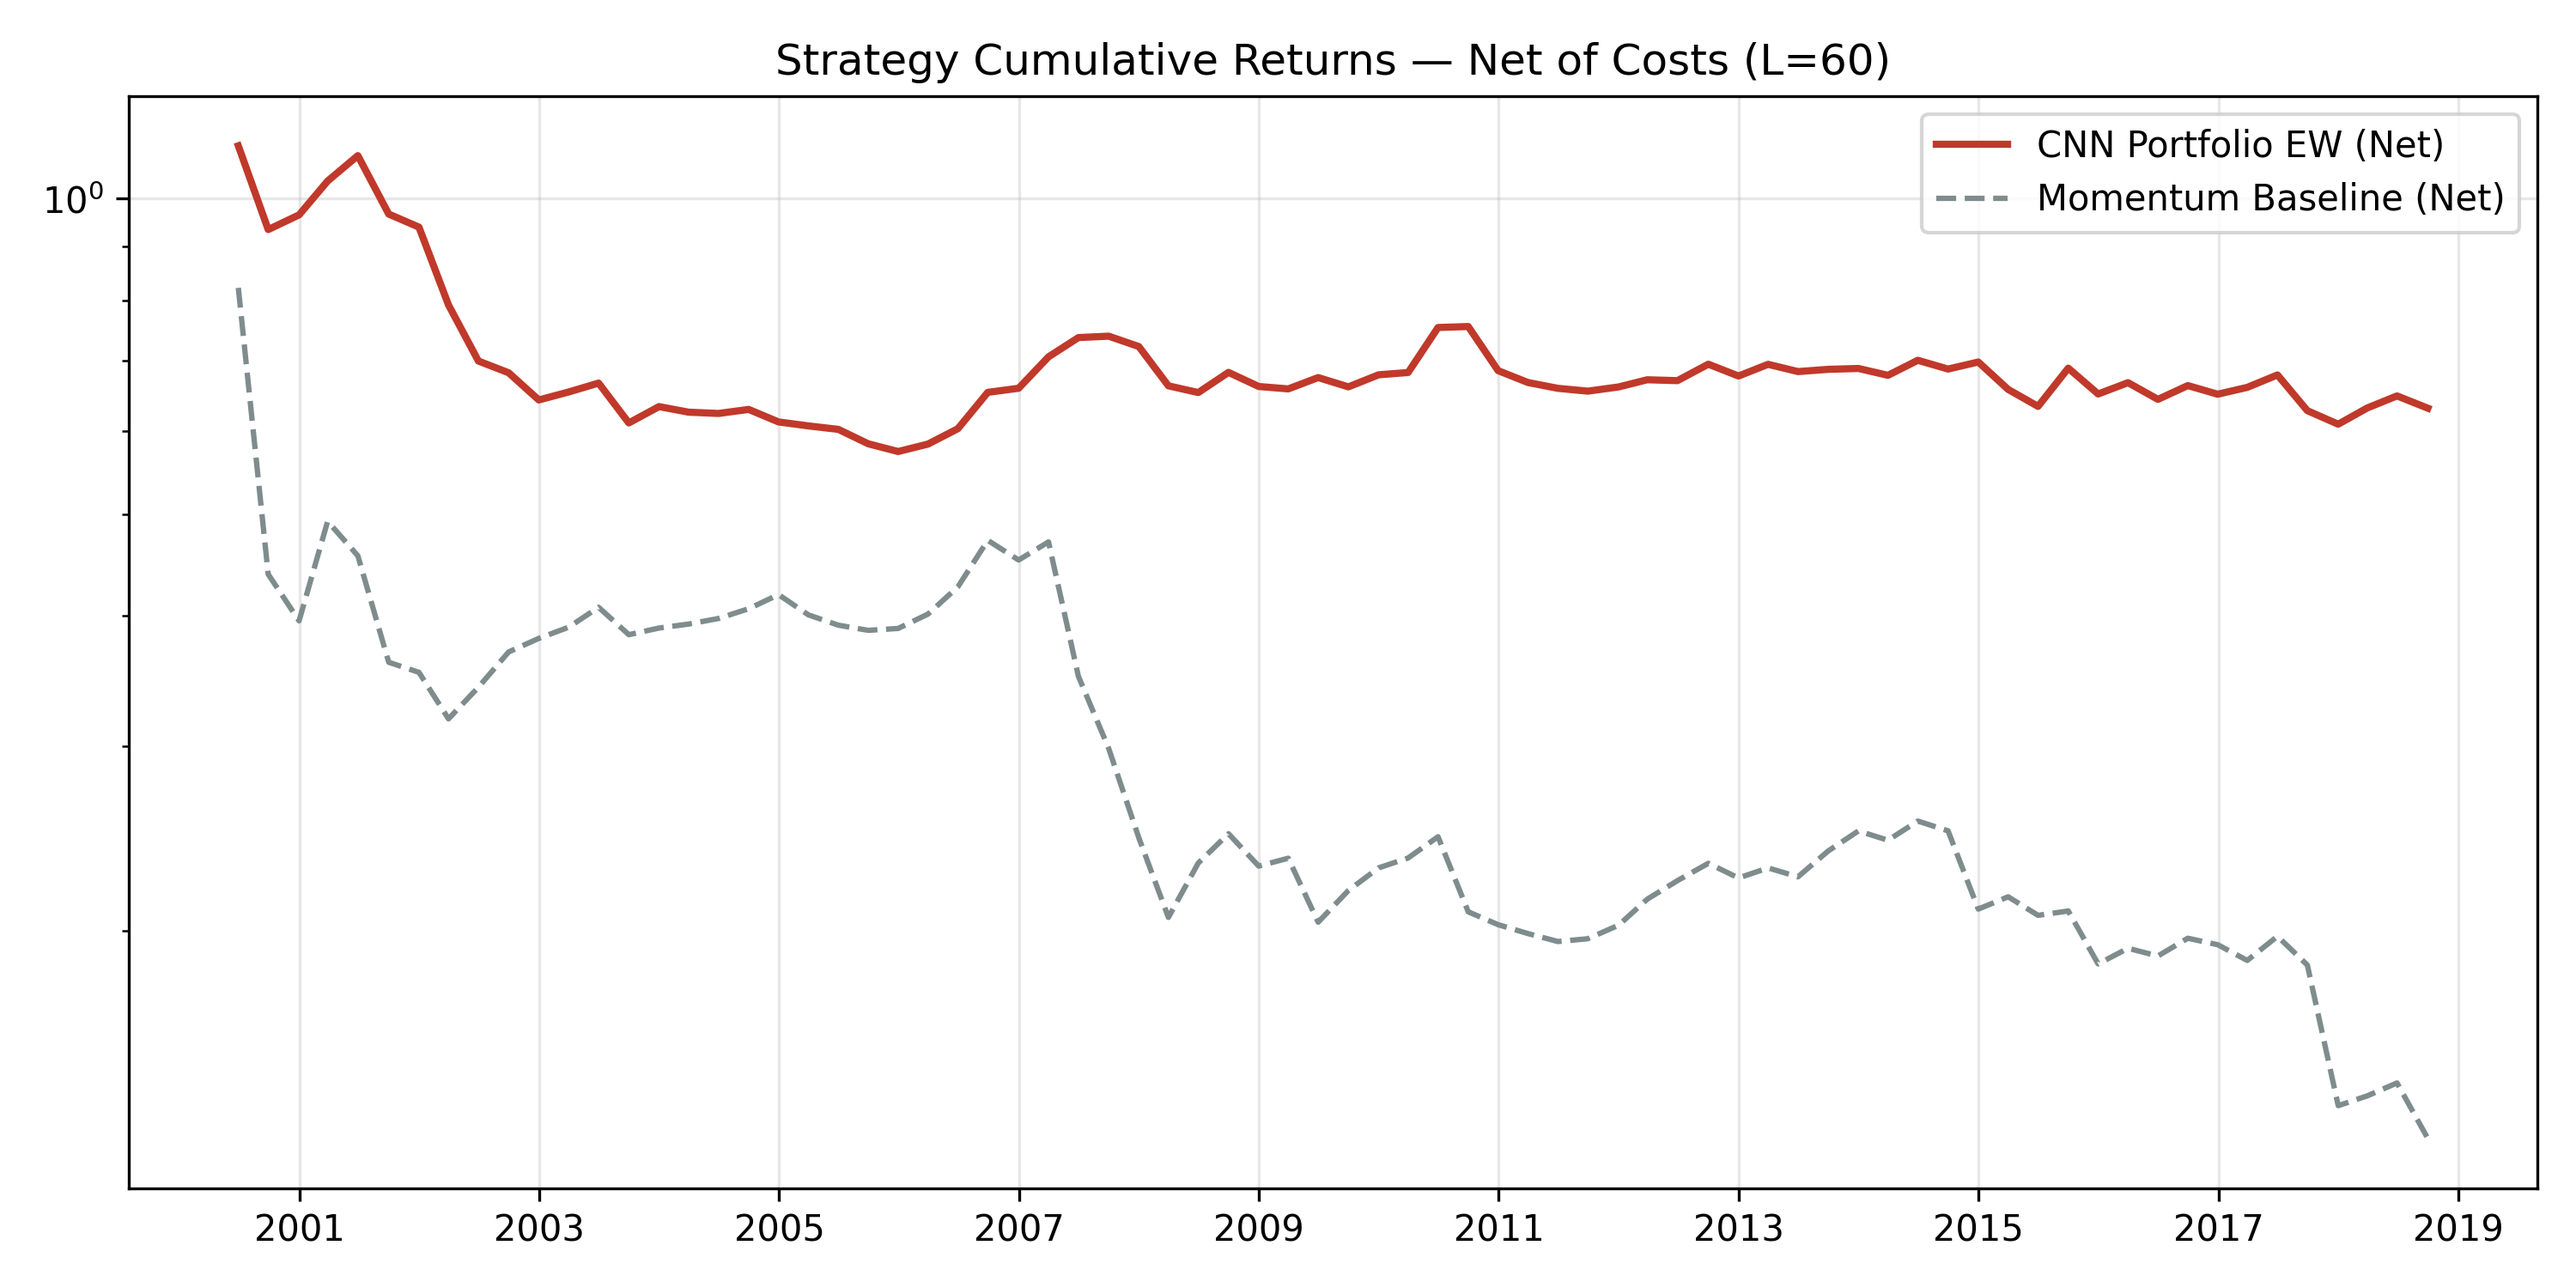
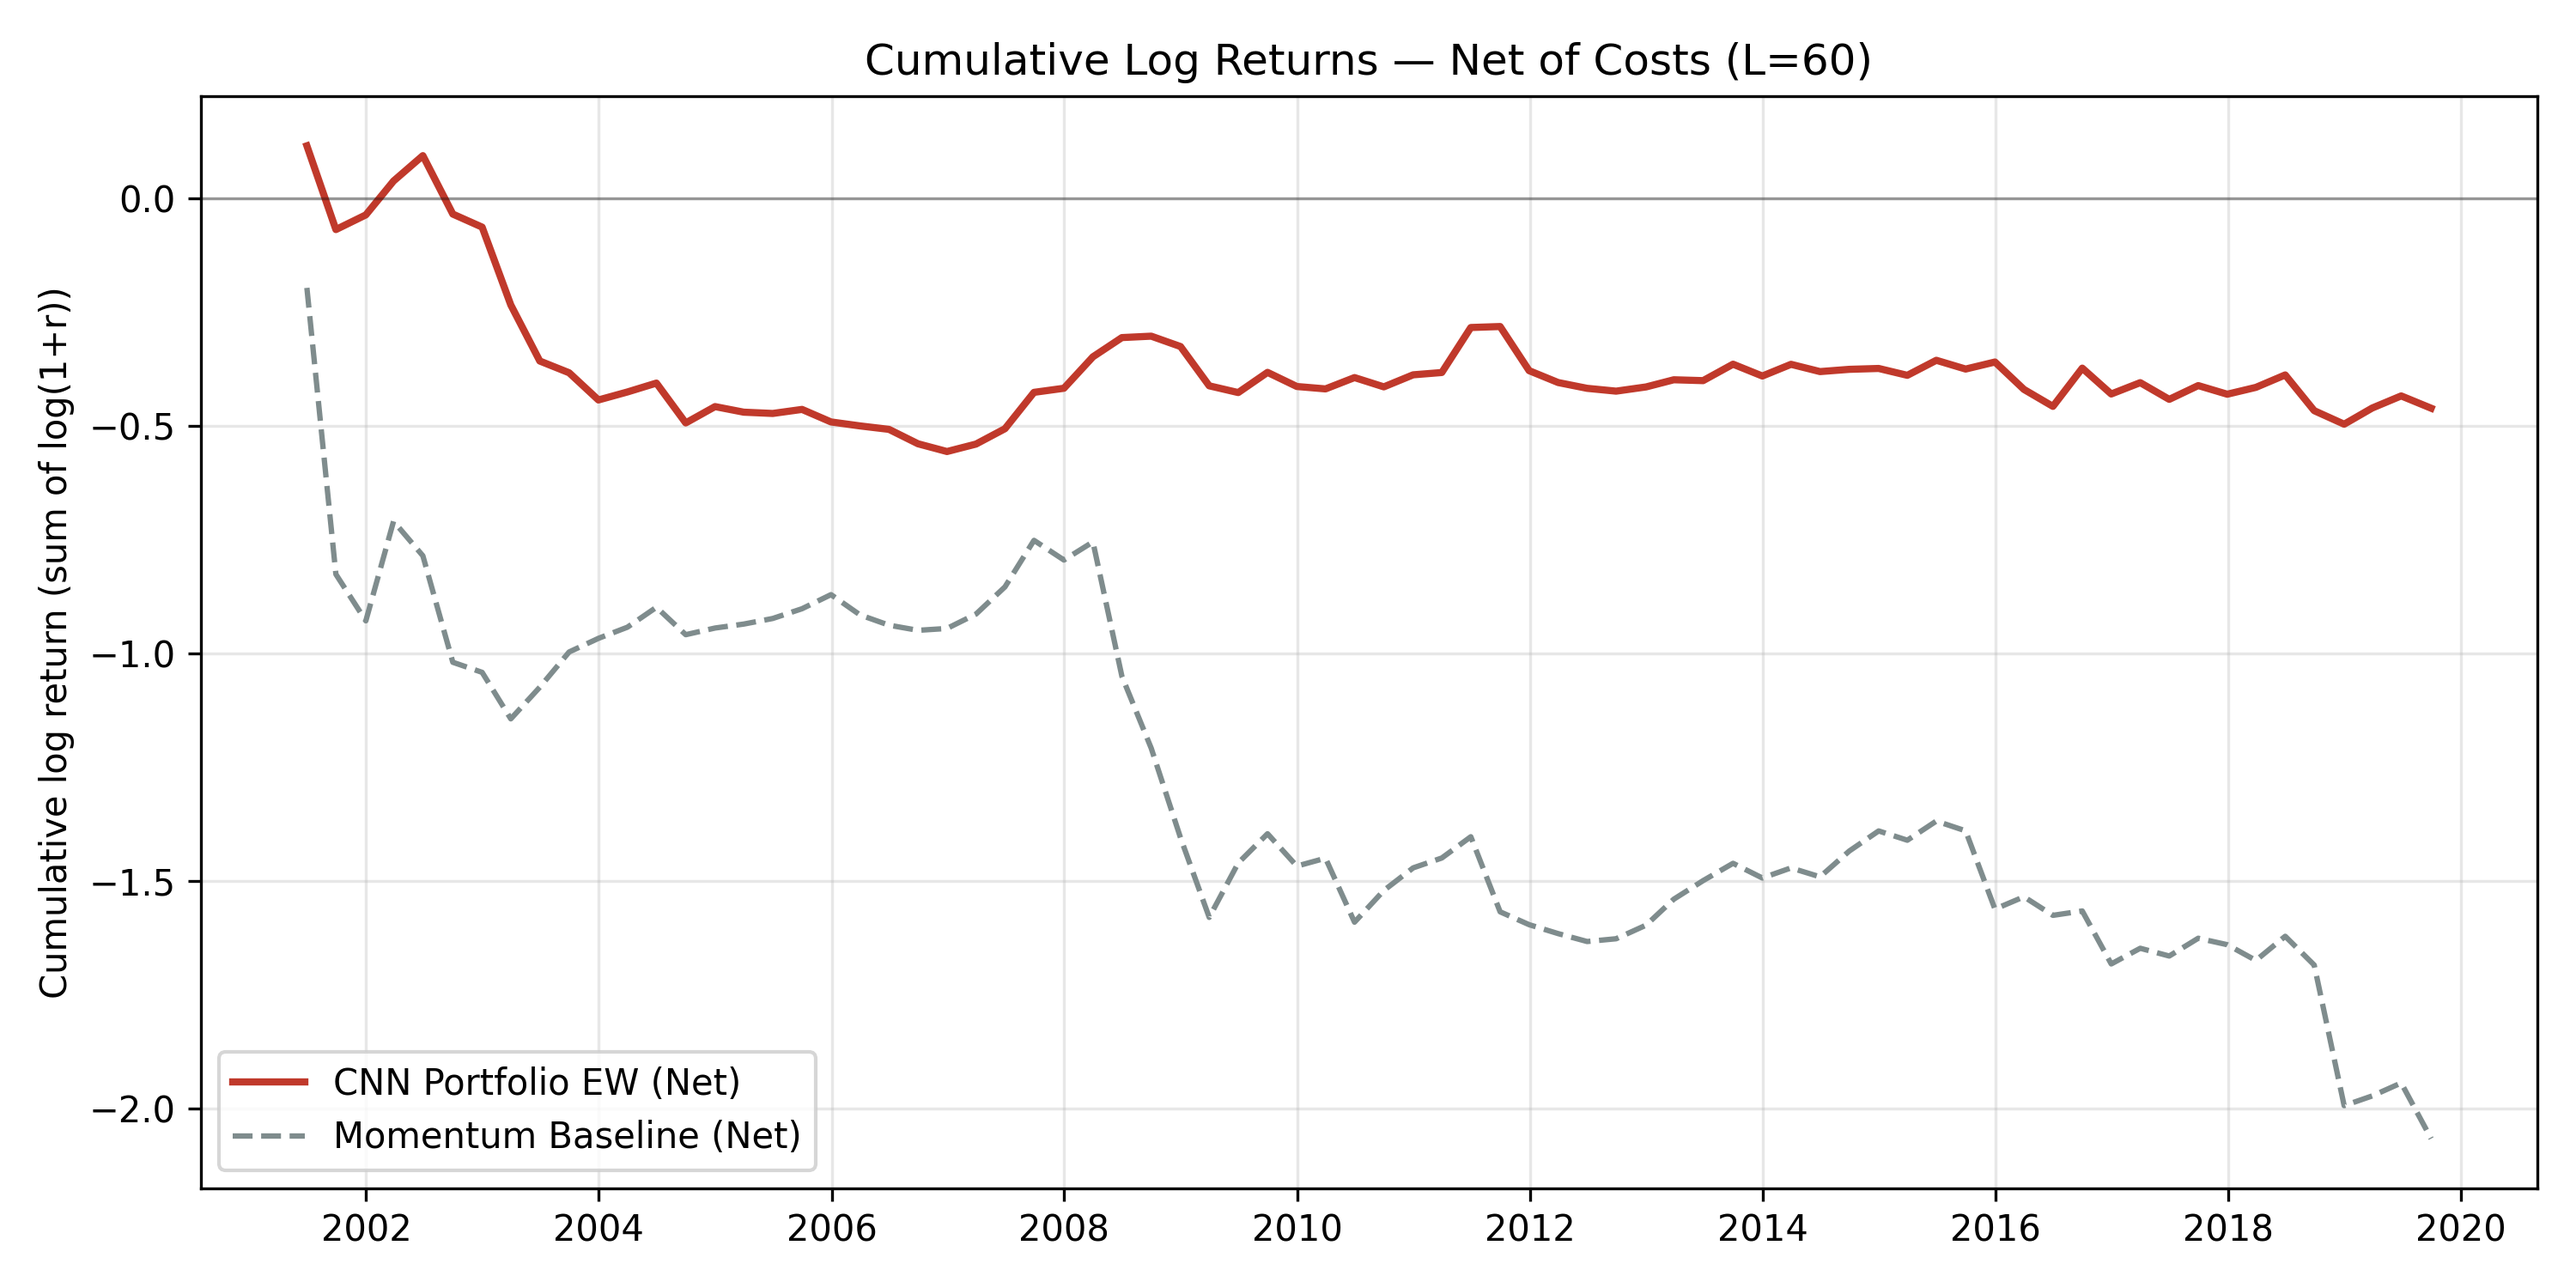
revise: the logic to generate the figure related to cumulative returns based on diff models

diff --git a/final_submit_version/scripts/pipeline_split/plot_figure5_vol_adjusted_cumlog.py b/final_submit_version/scripts/pipeline_split/plot_figure5_vol_adjusted_cumlog.py
@@ -1,0 +1,247 @@
+#!/usr/bin/env python3
+"""Jiang et al. (2023) Figure 5–style panel: volatility-matched cumulative log returns.
+
+Matches the *construction* in the paper caption:
+
+1. At each model's native rebalance dates, take equal-weight long–short returns
+   (here: **gross** ``*_LS_gross*`` columns from cached ``backtest_I*.pkl``).
+2. Build the same holding-period return on a **market benchmark** between consecutive
+   rebalance dates. We try **SPY** (``yfinance``) first; if that fails (rate limits),
+   we use **CRSP value-weighted market** from Ken French daily factors
+   (``Mkt-RF + RF``), which matches many asset-pricing appendices and is close to
+   “market vol” for rescaling.
+3. Let σ_strat and σ_bench be full-sample standard deviations of those periodic returns.
+4. Scale strategy returns by (σ_bench / σ_strat) so each series has the same vol as the benchmark
+   over the test window.
+5. Plot cumulative log return: sum_t log(1 + r̃_t) on a **linear** y-axis.
+
+**Important cache limitation:** the paper plots **I5/R5, I20/R5, I60/R5** (fixed weekly
+holding *R=5*). This repo's cached ``backtest_I20.pkl`` / ``backtest_I60.pkl`` use
+**monthly / quarterly** rebalancing (matched *I=R*). Those curves are labelled
+``I20/R20`` and ``I60/R60`` in the legend so the figure is not misread as a full
+replication of the paper's horizon mix.
+
+Extra series from cache on the weekly calendar: momentum and MA long–short (``backtest_I5``).
+
+Needs **network** for the benchmark series (SPY and/or Fama–French daily).
+
+Outputs (300 dpi PNG):
+
+- ``final_submit_version/outputs/pipeline_runs/figures/figure5_vol_adjusted_cumlog.png``
+- ``final_submit_version/outputs/ppt_images/figure5_vol_adjusted_cumlog.png``
+"""
+from __future__ import annotations
+
+import sys
+import time
+from pathlib import Path
+
+import numpy as np
+import pandas as pd
+
+ROOT_DIR = Path(__file__).resolve().parents[3]
+CACHE_DIR = ROOT_DIR / "final_submit_version" / "outputs" / "cache"
+FIG_DIR = ROOT_DIR / "final_submit_version" / "outputs" / "pipeline_runs" / "figures"
+PPT_DIR = ROOT_DIR / "final_submit_version" / "outputs" / "ppt_images"
+
+
+def _norm_ix(ix) -> pd.DatetimeIndex:
+    return pd.to_datetime(ix, utc=False).tz_localize(None).normalize()
+
+
+def load_backtest(h: int) -> pd.DataFrame:
+    path = CACHE_DIR / f"backtest_I{h}.pkl"
+    if not path.exists():
+        raise FileNotFoundError(path)
+    df = pd.read_pickle(path)
+    df = df.copy()
+    df.index = _norm_ix(df.index)
+    return df.sort_index()
+
+
+def download_spy_daily(start: pd.Timestamp, end: pd.Timestamp) -> pd.Series:
+    import yfinance as yf
+
+    pad = pd.Timedelta(days=7)
+    kw = dict(
+        start=(start - pad).strftime("%Y-%m-%d"),
+        end=(end + pad).strftime("%Y-%m-%d"),
+        progress=False,
+        auto_adjust=True,
+        threads=False,
+    )
+    last_err: Exception | None = None
+    for attempt in range(3):
+        try:
+            df = yf.download("SPY", **kw)
+            if df.empty or len(df) < 10:
+                raise RuntimeError("yfinance returned empty SPY history")
+            close = df["Close"].squeeze()
+            if hasattr(close, "columns"):
+                close = close.iloc[:, 0]
+            close.index = _norm_ix(close.index)
+            close = close.sort_index()
+            ret = close.pct_change()
+            ret.name = "SPY"
+            return ret.dropna()
+        except Exception as exc:  # noqa: BLE001
+            last_err = exc
+            time.sleep(2.0 * (attempt + 1))
+    raise RuntimeError(f"yfinance SPY failed after retries: {last_err}") from last_err
+
+
+def download_ff_market_daily(start: pd.Timestamp, end: pd.Timestamp) -> pd.Series:
+    import pandas_datareader.data as web
+
+    pad = pd.Timedelta(days=35)
+    ff = web.DataReader(
+        "F-F_Research_Data_Factors_daily",
+        "famafrench",
+        start=start - pad,
+        end=end + pad,
+    )[0]
+    ff = ff.copy()
+    ff.columns = [str(c).strip() for c in ff.columns]
+    ff.index = _norm_ix(ff.index)
+    ff = ff.sort_index()
+    # Daily factors are in percent; convert to decimals. Total market ~ Mkt-RF + RF.
+    mkt = (ff["Mkt-RF"] + ff["RF"]) / 100.0
+    mkt.name = "FF_mkt"
+    return mkt.dropna()
+
+
+def download_benchmark_daily(start: pd.Timestamp, end: pd.Timestamp) -> tuple[pd.Series, str]:
+    """Returns (daily simple return series, human label for plots)."""
+    try:
+        return download_spy_daily(start, end), "SPY"
+    except Exception as yf_exc:  # noqa: BLE001
+        print(f"[warn] SPY via yfinance unavailable ({yf_exc}); using FF daily market.", file=sys.stderr)
+        return download_ff_market_daily(start, end), "CRSP VW mkt (FF)"
+
+
+def compound_spy_over_schedule(spy_ret_daily: pd.Series, rebal_dates: pd.DatetimeIndex) -> pd.Series:
+    """Holding-period benchmark return for each interval [t_i, t_{i+1}), aligned to t_i."""
+    dates = _norm_ix(rebal_dates).sort_values().unique()
+    out_idx: list = []
+    out_val: list[float] = []
+    for i, t_start in enumerate(dates):
+        t_end = dates[i + 1] if i + 1 < len(dates) else None
+        if t_end is None:
+            break
+        chunk = spy_ret_daily[(spy_ret_daily.index > t_start) & (spy_ret_daily.index <= t_end)]
+        if chunk.empty:
+            continue
+        r = float((1.0 + chunk).prod() - 1.0)
+        out_idx.append(t_start)
+        out_val.append(r)
+    return pd.Series(out_val, index=pd.DatetimeIndex(out_idx, name="dlycaldt"), name="bench_hold")
+
+
+def vol_scaled_cumulative_log(strategy_r: pd.Series, bench_hold_r: pd.Series) -> pd.Series:
+    """Inner-join on dates; scale strategy vol to benchmark vol; return cum log(1+r)."""
+    j = pd.DataFrame({"strat": strategy_r.astype(float), "bench": bench_hold_r.astype(float)}).dropna(
+        how="any"
+    )
+    if len(j) < 5:
+        return pd.Series(dtype=float)
+    s_strat = j["strat"].std(ddof=1)
+    s_spy = j["bench"].std(ddof=1)
+    if s_strat <= 0 or s_spy <= 0 or not np.isfinite(s_strat) or not np.isfinite(s_spy):
+        return pd.Series(dtype=float)
+    k = s_spy / s_strat
+    adj = j["strat"] * k
+    return np.log1p(adj).cumsum()
+
+
+def main() -> None:
+    import matplotlib.pyplot as plt
+
+    series_spec: list[tuple[str, pd.Series, str]] = []
+
+    bt5 = load_backtest(5)
+    bt20 = load_backtest(20)
+    bt60 = load_backtest(60)
+
+    start = min(bt5.index.min(), bt20.index.min(), bt60.index.min())
+    end = max(bt5.index.max(), bt20.index.max(), bt60.index.max())
+    bench_daily, bench_label = download_benchmark_daily(start, end)
+
+    # --- weekly (I5/R5) strategies from backtest_I5 ---
+    spy5 = compound_spy_over_schedule(bench_daily, bt5.index)
+    common5 = spy5.index.intersection(bt5.index)
+
+    def add_scaled(name: str, col: str) -> None:
+        r = bt5[col].reindex(common5).dropna()
+        s = spy5.reindex(r.index).dropna()
+        idx = r.index.intersection(s.index)
+        c = vol_scaled_cumulative_log(r.reindex(idx), s.reindex(idx))
+        if len(c) > 0:
+            series_spec.append((name, c, col))
+
+    add_scaled(r"CNN I5/R5 ($\mathrm{EW}$, gross)", "CNN_LS_gross_EW")
+    add_scaled(r"CNN I5/R5 ($\mathrm{VW}$, gross)", "CNN_LS_gross_VW")
+    add_scaled("Momentum (weekly H–L, gross)", "Mom_LS_gross")
+    add_scaled("MA cross (weekly H–L, gross)", "MA_LS_gross")
+
+    # --- CNN at native monthly / quarterly calendars (honest labels) ---
+    for h, bt, tag in ((20, bt20, "I20/R20"), (60, bt60, "I60/R60")):
+        spy_h = compound_spy_over_schedule(bench_daily, bt.index)
+        for col, sfx in (("CNN_LS_gross_EW", "EW"), ("CNN_LS_gross_VW", "VW")):
+            common = spy_h.index.intersection(bt.index)
+            r = bt[col].reindex(common).astype(float)
+            s = spy_h.reindex(common).astype(float)
+            idx = r.dropna().index.intersection(s.dropna().index)
+            c = vol_scaled_cumulative_log(r.reindex(idx), s.reindex(idx))
+            if len(c) > 0:
+                series_spec.append((rf"CNN {tag} ($\mathrm{{{sfx}}}$, gross)", c, f"I{h}_{sfx}"))
+
+    # Benchmark buy&hold over same weekly intervals (no vol rescaling vs itself)
+    r_spy = spy5.dropna()
+    c_spy = np.log1p(r_spy).cumsum()
+    series_spec.append((rf"{bench_label} (weekly hold)", c_spy, "SPY"))
+
+    FIG_DIR.mkdir(parents=True, exist_ok=True)
+    PPT_DIR.mkdir(parents=True, exist_ok=True)
+
+    plt.figure(figsize=(11, 6.2), dpi=120)
+    colors = {
+        "CNN_LS_gross_EW": "#1f77b4",
+        "CNN_LS_gross_VW": "#aec7e8",
+        "Mom_LS_gross": "#2ca02c",
+        "MA_LS_gross": "#9467bd",
+        "I20_EW": "#d62728",
+        "I20_VW": "#ff9896",
+        "I60_EW": "#000000",
+        "I60_VW": "#bbbbbb",
+        "SPY": "#ffbb00",
+    }
+    for name, curve, key in series_spec:
+        c = colors.get(key, "#7f7f7f")
+        lw = 2.2 if key in {"CNN_LS_gross_EW", "SPY"} else 1.6
+        plt.plot(curve.index, curve.values, label=name, color=c, linewidth=lw)
+
+    plt.title(
+        f"Volatility-adjusted cumulative log returns (EW L/S; σ matched to {bench_label})",
+        fontsize=12,
+    )
+    plt.xlabel("Date")
+    plt.ylabel(r"Cumulative $\sum \log(1+\tilde r_t)$ after vol rescaling")
+    plt.axhline(0.0, color="gray", linewidth=0.7, linestyle="-", alpha=0.4)
+    plt.legend(loc="upper left", fontsize=8, framealpha=0.92)
+    plt.grid(True, alpha=0.25)
+    plt.tight_layout()
+    out1 = FIG_DIR / "figure5_vol_adjusted_cumlog.png"
+    out2 = PPT_DIR / "figure5_vol_adjusted_cumlog.png"
+    plt.savefig(out1, dpi=300, bbox_inches="tight")
+    plt.savefig(out2, dpi=300, bbox_inches="tight")
+    plt.close()
+    print(f"wrote {out1}")
+    print(f"wrote {out2}")
+
+
+if __name__ == "__main__":
+    try:
+        main()
+    except Exception as exc:  # noqa: BLE001
+        print(f"[error] {exc}", file=sys.stderr)
+        sys.exit(1)

diff --git a/final_submit_version/scripts/pipeline_split/export_ppt15_cum_log.py b/final_submit_version/scripts/pipeline_split/export_ppt15_cum_log.py
@@ -1,0 +1,67 @@
+#!/usr/bin/env python3
+"""Regenerate PPT 15 cumulative *log* return PNGs from cached backtest pickles only."""
+from __future__ import annotations
+
+import os
+from pathlib import Path
+
+import matplotlib
+
+matplotlib.use("Agg")
+import matplotlib.pyplot as plt
+import numpy as np
+import pandas as pd
+
+ROOT = Path(__file__).resolve().parents[1]
+CACHE = ROOT / "outputs" / "cache"
+PPT_OUT = ROOT / "outputs" / "ppt_images"
+
+
+def cum_log(s: pd.Series) -> pd.Series:
+    return np.log1p(s.astype(float)).cumsum()
+
+
+def main() -> None:
+    PPT_OUT.mkdir(parents=True, exist_ok=True)
+    for h in (5, 20, 60):
+        p = CACHE / f"backtest_I{h}.pkl"
+        if not p.exists():
+            print(f"[skip] missing {p}")
+            continue
+        target_ret = pd.read_pickle(p)
+        if not isinstance(target_ret, pd.DataFrame):
+            print(f"[skip] bad pickle (not DataFrame): {p}")
+            continue
+        title_suffix = f"L={h}"
+
+        plt.figure(figsize=(10, 5))
+        plt.plot(target_ret.index, cum_log(target_ret["CNN_LS_net_EW"]), label="CNN Portfolio EW (Net)", color="#c0392b", linewidth=2)
+        plt.plot(target_ret.index, cum_log(target_ret["Mom_LS_net"]), label="Momentum Baseline (Net)", color="#7f8c8d", linestyle="--")
+        plt.title(f"Cumulative Log Returns — Net of Costs ({title_suffix})", fontsize=12)
+        plt.ylabel("Cumulative log return (sum of log(1+r))")
+        plt.axhline(0.0, color="black", linewidth=0.8, alpha=0.35)
+        plt.legend()
+        plt.grid(alpha=0.3)
+        plt.tight_layout()
+        net_name = f"ppt15_cumulative_returns_L{h}.png"
+        plt.savefig(PPT_OUT / net_name, dpi=300)
+        plt.close()
+        print(f"[ok] {PPT_OUT / net_name}")
+
+        plt.figure(figsize=(10, 5))
+        plt.plot(target_ret.index, cum_log(target_ret["CNN_LS_gross_EW"]), label="CNN Portfolio EW (Gross)", color="#c0392b", linewidth=2)
+        plt.plot(target_ret.index, cum_log(target_ret["Mom_LS_gross"]), label="Momentum Baseline (Gross)", color="#7f8c8d", linestyle="--")
+        plt.title(f"Cumulative Log Returns — Gross of Costs ({title_suffix})", fontsize=12)
+        plt.ylabel("Cumulative log return (sum of log(1+r))")
+        plt.axhline(0.0, color="black", linewidth=0.8, alpha=0.35)
+        plt.legend()
+        plt.grid(alpha=0.3)
+        plt.tight_layout()
+        gross_name = f"ppt15_cumulative_returns_gross_L{h}.png"
+        plt.savefig(PPT_OUT / gross_name, dpi=300)
+        plt.close()
+        print(f"[ok] {PPT_OUT / gross_name}")
+
+
+if __name__ == "__main__":
+    main()
